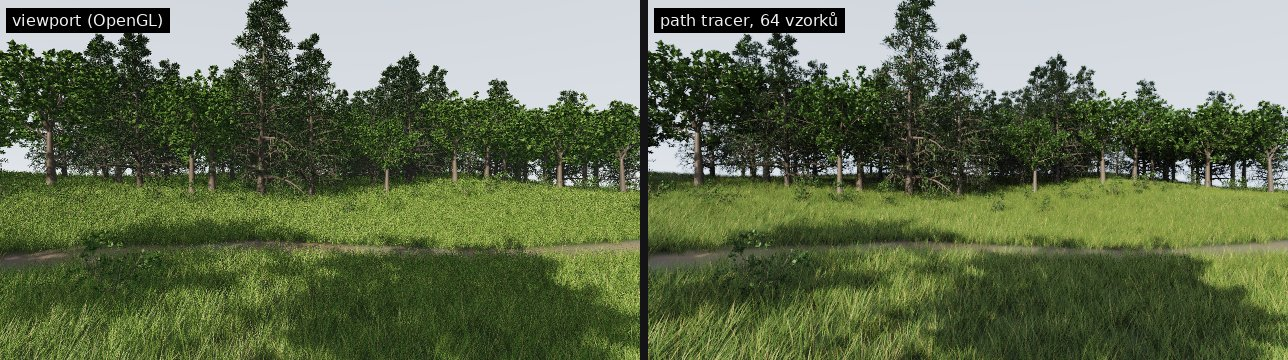
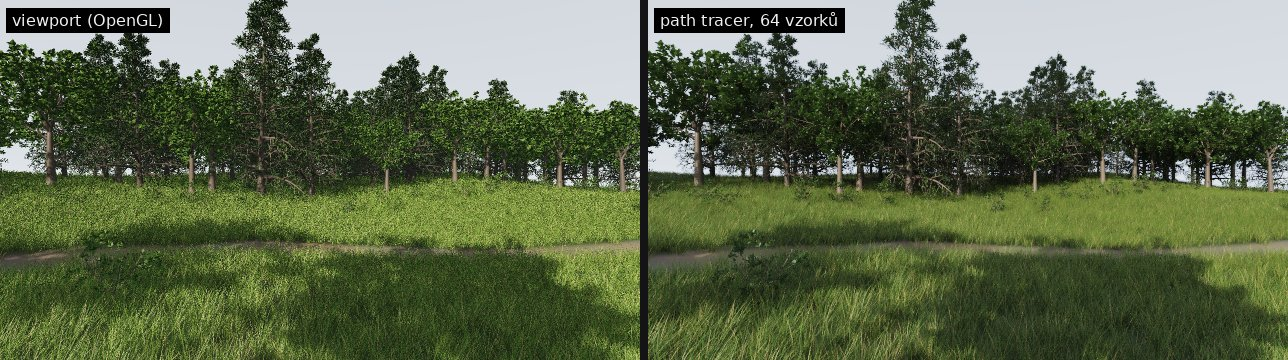
docs: path tracer pictures from today's renderer, the Render tab in the editor
The meadow is rendered again: the old picture predates the translucent
grass and leaves. The close-up of the grass is rendered again too, from
the switch to GLM on. A screenshot shows the Render tab next to the
Viewport with the Output's Render section, and the quick start says
that a model renders without an Output and takes its settings from one
once it is added.

Claude-Session: https://claude.ai/code/session_01HhnUNtTimHBgdBM7qs8K3b

diff --git a/docs/pathtracer.md b/docs/pathtracer.md
@@ -24,7 +24,10 @@ V editoru:
    Přes kameru (klávesa **0** ve viewportu) se renderuje záběr kamery
    v jejím poměru stran.
 4. Nastavení je v uzlu **Output** v sekci **Render**. Ikona Output
-   v nástrojové liště záložky uzel vybere.
+   v nástrojové liště záložky uzel vybere. Scéna jen s geometrií (třeba
+   příklad `meadow`) Output mít nemusí a renderuje se s výchozím
+   nastavením. Output přidaný přes Tab v síti pak určuje slunce, oblohu,
+   kameru i render.
 5. Ikona fotoaparátu uloží render jako **PNG**, nebo jako **EXR**
    s lineárním světlem, hloubkou, albedem a normálami.
 
@@ -48,6 +51,8 @@ Path tracer nepotřebuje OpenGL, takže běží i v buildu bez EGL a bez
 editoru.
 
 ## 2. Záložka Render
+
+![Záložka Render: louka přes kameru po 31 vzorcích, vpravo nastavení v uzlu Output › Render](img/pathtracer-tab.jpg)
 
 | prvek | co dělá |
 |---|---|
